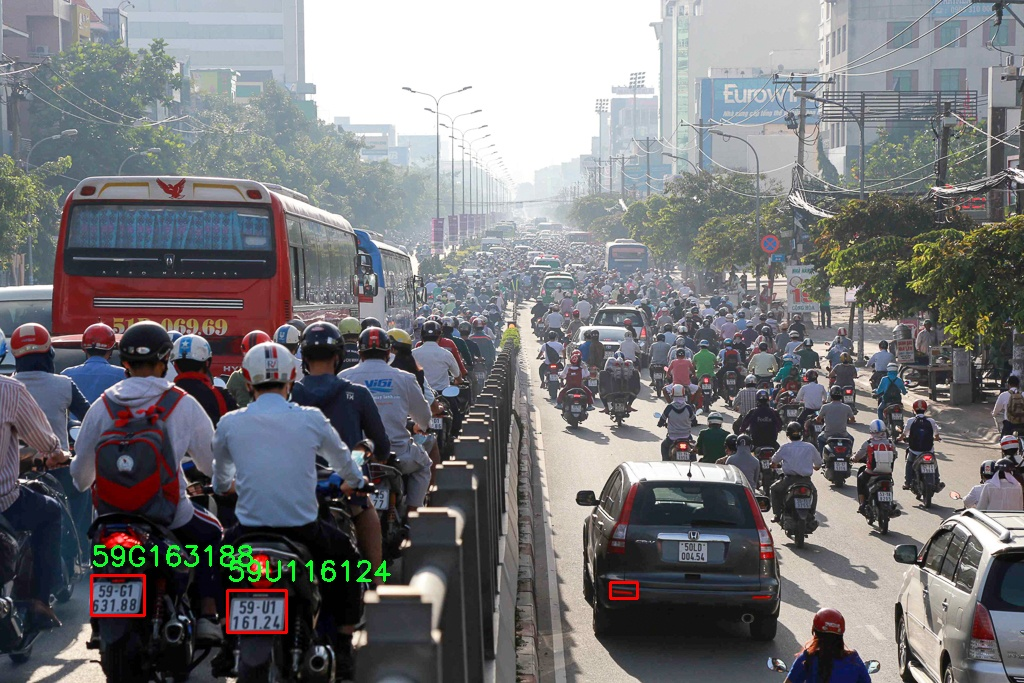
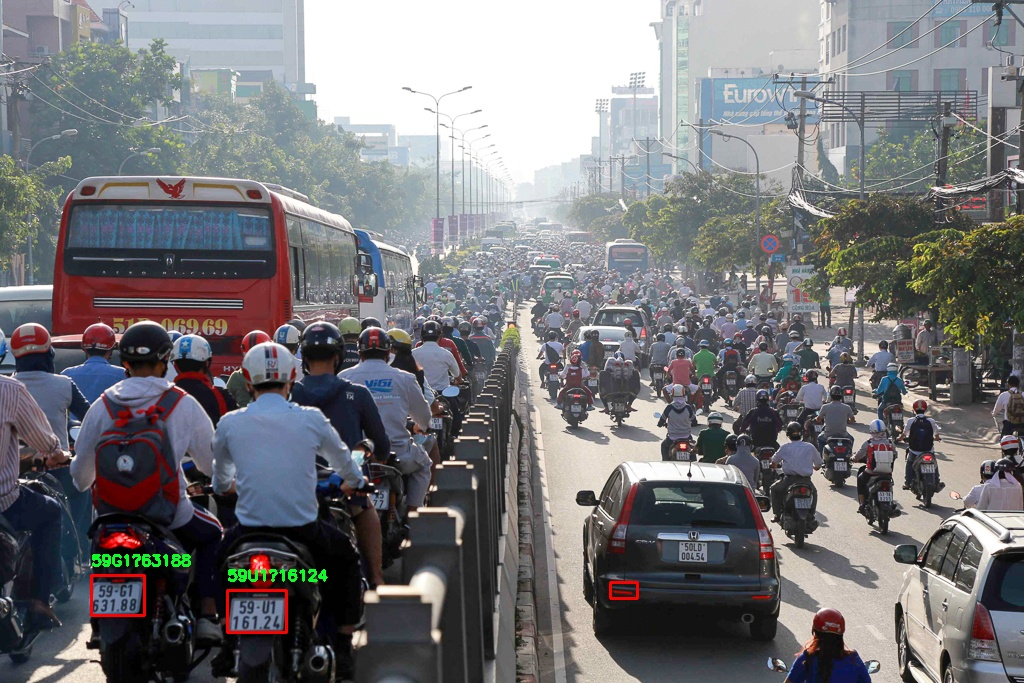
update output text

Changed region(s): [[0.0625, 0.7994, 0.375, 0.8609]]

diff --git a/function/process.py b/function/process.py
@@ -4,7 +4,6 @@ from function.process_frame import process_frame
 import sys
 
 def process_image(image_path, output_path, plate_detector, char_detector):
-    """Xử lý ảnh đầu vào"""
     frame = cv2.imread(image_path)
     if frame is None:
         raise ValueError("Không thể đọc ảnh. Kiểm tra đường dẫn!")
@@ -43,14 +42,14 @@ def process_video(video_path, output_path, plate_detector, char_detector, save_o
         fourcc = cv2.VideoWriter_fourcc(*'mp4v')
         out = cv2.VideoWriter(output_path, fourcc, fps, (frame_width, frame_height))
 
-    print("✅ Đang xử lý video...")
-    print("Nhấn 'q' để thoát")
+    print("✅ Video processing in progress...")
+    print("Press 'q' to exit")
 
     try:
         while True:
             ret, frame = cap.read()
             if not ret:
-                print("❌ Không thể đọc frame!")
+                print("❌ Cannot read frame!")
                 break
 
             processed_frame = process_frame(frame, plate_detector, char_detector)
@@ -64,7 +63,7 @@ def process_video(video_path, output_path, plate_detector, char_detector, save_o
             if cv2.waitKey(1) & 0xFF == ord('q'):
                 break
     except KeyboardInterrupt:
-        print("\n⚠ Đã dừng xử lý video theo yêu cầu người dùng")
+        print("\n⚠ Stopped processing videos on user request")
     finally:
         # Giải phóng tài nguyên
         cap.release()
@@ -72,4 +71,4 @@ def process_video(video_path, output_path, plate_detector, char_detector, save_o
             out.release()
         cv2.destroyAllWindows()
         if save_output:
-            print(f"✅ Video kết quả đã được lưu tại {output_path}")
+            print(f"✅The resulting video has been saved at {output_path}")

diff --git a/main.py b/main.py
@@ -14,13 +14,13 @@ def main():
 
     # Kiểm tra tham số đầu vào
     if not args.image and not args.video and not args.webcam:
-        print("❌ Vui lòng cung cấp đường dẫn ảnh, video hoặc sử dụng webcam!")
+        print("❌ Please provide photo, video link or use webcam!")
         parser.print_help()
         sys.exit(1)
 
     # Kiểm tra xung đột tham số
     if args.webcam and (args.image or args.video):
-        print("❌ Không thể sử dụng webcam cùng lúc với ảnh hoặc video!")
+        print("❌ Cannot use webcam at the same time as photo or video!")
         sys.exit(1)
 
     # Khởi tạo các model detector
@@ -28,7 +28,7 @@ def main():
         plate_detector = YOLO("model/LP_detector.pt")
         char_detector = YOLO("model/LP_ocr.pt")
     except Exception as e:
-        print(f"❌ Lỗi khi khởi tạo model: {str(e)}")
+        print(f"❌ Error initializing model: {str(e)}")
         sys.exit(1)
 
     try:
@@ -47,7 +47,7 @@ def main():
             process_video(None, None, plate_detector, char_detector, save_output=False)
             
     except Exception as e:
-        print(f"❌ Lỗi: {str(e)}")
+        print(f"❌ Error: {str(e)}")
         sys.exit(1)
 
 if __name__ == "__main__":

diff --git a/function/sort_charater.py b/function/sort_charater.py
@@ -1,7 +1,6 @@
 import numpy as np
 
 def sort_by_rows(chars):
-    """ Sắp xếp ký tự theo hàng (trên xuống dưới) và cột (trái sang phải). """
     if not chars:
         return ""
 
@@ -27,8 +26,16 @@ def sort_by_rows(chars):
         rows.append(current_row)
 
     # Sắp xếp từng hàng theo x_min (trái sang phải)
-    sorted_chars = []
-    for row in rows:
-        sorted_chars.extend(sorted(row, key=lambda c: c[0][0]))  # Sắp xếp theo x_min
+    # sorted_chars = []
+    # for row in rows:
+    #     sorted_chars.extend(sorted(row, key=lambda c: c[0][0]))  # Sắp xếp theo x_min
 
-    return "".join(c[1] for c in sorted_chars)
+    # return "".join(c[1] for c in sorted_chars)
+
+    plate_text_parts = []
+    for row in rows:
+        sorted_row = sorted(row, key=lambda c: c[0][0])
+        plate_text_parts.append("".join(c[1] for c in sorted_row))
+
+    # Ghép các hàng lại với dấu '.'
+    return " ".join(plate_text_parts)

diff --git a/function/process_frame.py b/function/process_frame.py
@@ -30,6 +30,6 @@ def process_frame(frame, plate_detector, char_detector):
         print("Plate text:", plate_text)
 
         cv2.rectangle(frame, (x1, y1), (x2, y2), (0, 0, 255), 2)
-        cv2.putText(frame, plate_text, (x1, y1 - 10), cv2.FONT_HERSHEY_SIMPLEX, 0.9, (36,255,12), 2)
+        cv2.putText(frame, plate_text, (x1, y1 - 10), cv2.FONT_HERSHEY_SIMPLEX, 0.5, (36,255,12), 2)
 
     return frame
